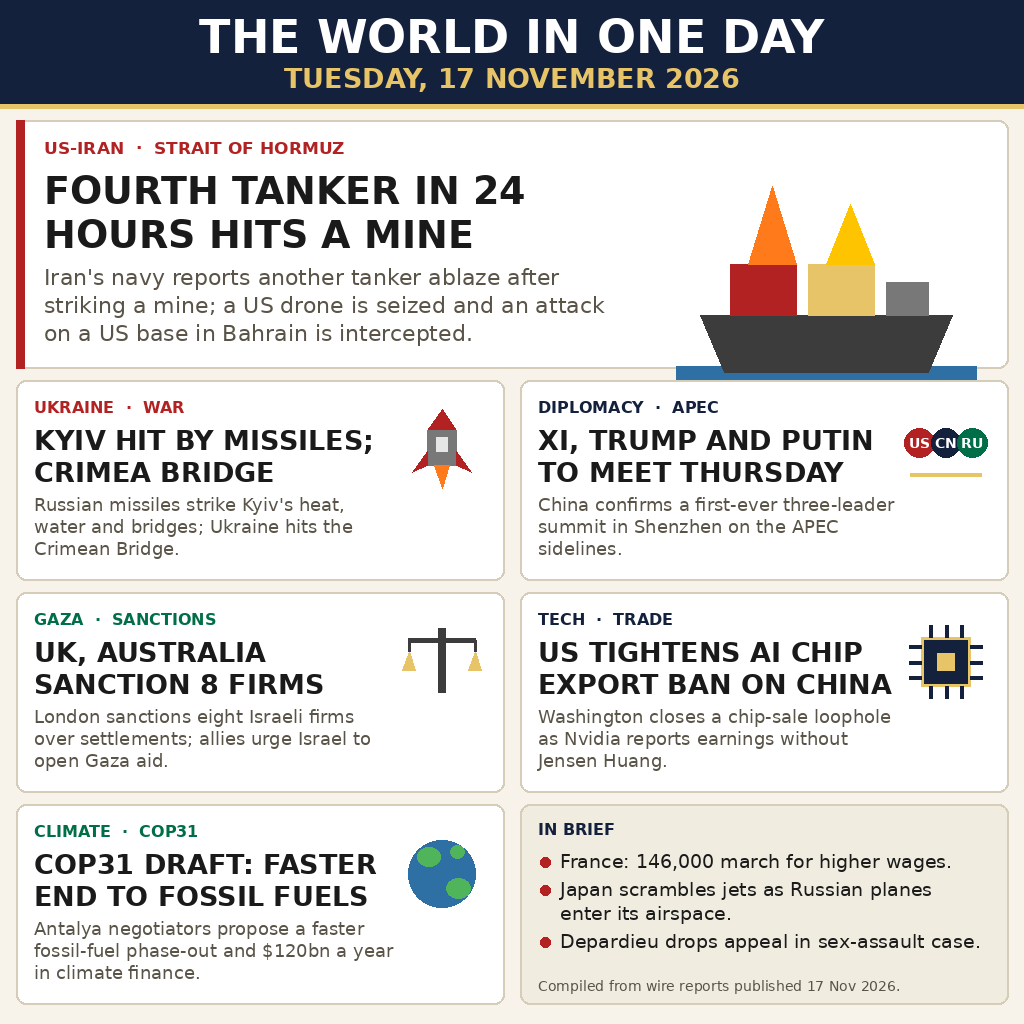
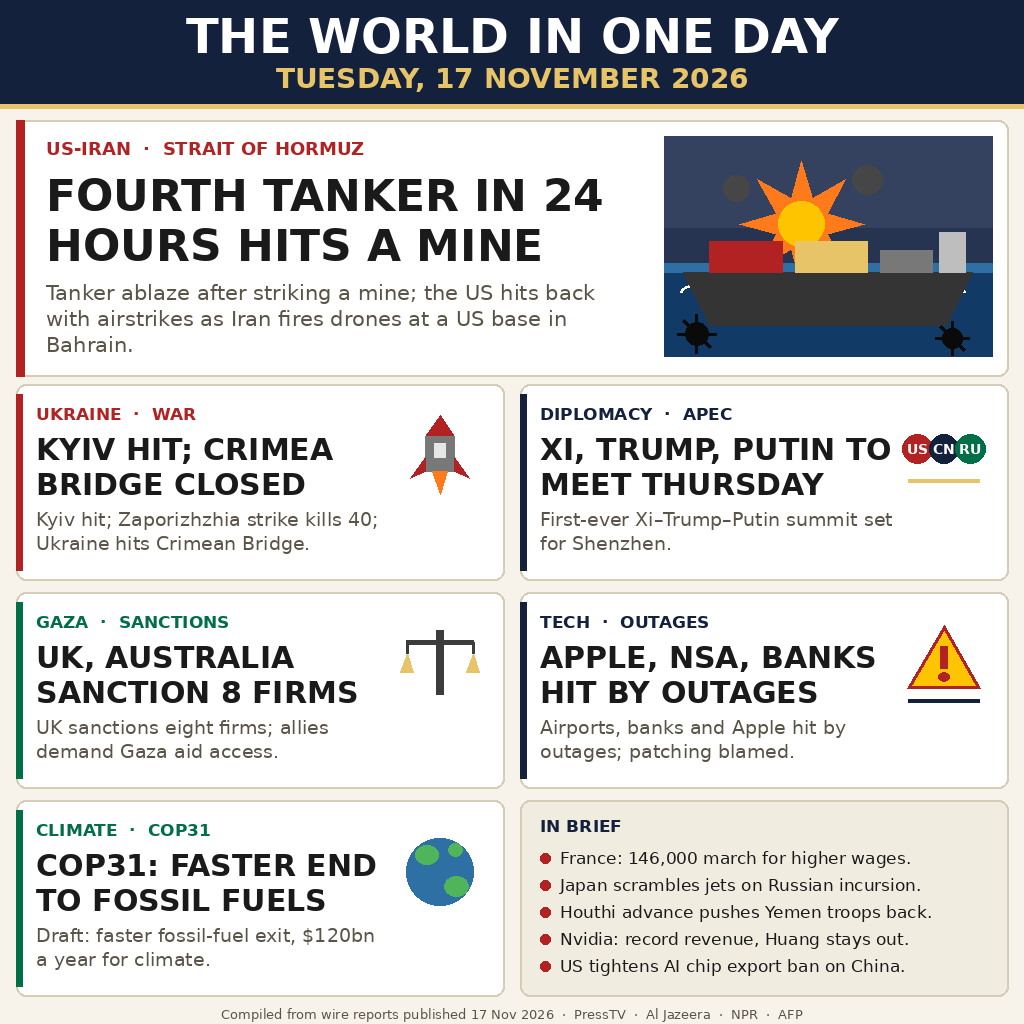
News-image v2: bigger hero scene, larger type, outages card, 5 briefs

diff --git a/render.py b/render.py
@@ -1,5 +1,13 @@
 #!/usr/bin/env python3
-"""Render the 17 November 2026 world-news summary image (1024x1024 PNG).
+"""Render the 17 November 2026 world-news summary image, VERSION 2
+(1024x1024 PNG).
+
+v2 vs v1: bigger, more dramatic lead scene; larger type everywhere
+(headlines 30-44pt, bodies 19-21pt); one fresh card (US tech outages,
+verified by NPR); Ukraine card strengthened with the verified
+Zaporizhzhia death toll; Gaza card strengthened with the four-nation
+aid call; In Brief grows to 5 one-line items and the source line moves
+to a footer strip, so no panel has dead space.
 
 Run locally (needs Pillow + DejaVu fonts, both present on the build machine):
     python3 render.py
@@ -15,14 +23,16 @@ PAPER = (247, 243, 234)
 INK = (26, 26, 26)
 MUTED = (90, 84, 72)
 NAVY = (20, 33, 61)
+NAVY_DARK = (13, 22, 42)
 GOLD = (232, 196, 104)
 RED = (178, 34, 34)
 CARD = (255, 255, 255)
 BORDER = (214, 205, 184)
-SKY = (135, 206, 235)
 SEA = (46, 111, 164)
+SEA_DARK = (18, 58, 102)
 FLAME = (255, 122, 26)
 FLAME2 = (255, 196, 0)
+GREEN = (0, 110, 70)
 
 
 def font(name, size):
@@ -66,26 +76,52 @@ def draw_text_block(draw, x, y, lines, fnt, fill, leading):
 
 # ---------- icons (flat shapes, drawn with PIL primitives) ----------
 
-def icon_tanker(d, x, y, s):
+def icon_tanker_scene(d, x, y, w, h):
+    """Dramatic war-at-sea scene: dusk sky, burning tanker, mines in the water."""
+    # dusk sky bands
+    d.rectangle([x, y, x + w, y + h * 0.42], fill=(52, 66, 96))
+    d.rectangle([x, y + h * 0.42, x + w, y + h * 0.58], fill=(38, 52, 82))
     # sea
-    d.rectangle([x, y + s * 0.72, x + s, y + s * 0.95], fill=SEA)
-    d.arc([x, y + s * 0.80, x + s, y + s * 1.05], 0, 180, fill=(255, 255, 255), width=3)
-    # hull
-    d.polygon([(x + s * 0.08, y + s * 0.55), (x + s * 0.92, y + s * 0.55),
-               (x + s * 0.84, y + s * 0.74), (x + s * 0.16, y + s * 0.74)], fill=(60, 60, 60))
-    # containers
-    d.rectangle([x + s * 0.18, y + s * 0.38, x + s * 0.40, y + s * 0.55], fill=RED)
-    d.rectangle([x + s * 0.44, y + s * 0.38, x + s * 0.66, y + s * 0.55], fill=GOLD)
-    d.rectangle([x + s * 0.70, y + s * 0.44, x + s * 0.84, y + s * 0.55], fill=(120, 120, 120))
-    # flame
-    d.polygon([(x + s * 0.24, y + s * 0.38), (x + s * 0.32, y + s * 0.12),
-               (x + s * 0.40, y + s * 0.38)], fill=FLAME)
-    d.polygon([(x + s * 0.50, y + s * 0.38), (x + s * 0.58, y + s * 0.18),
-               (x + s * 0.66, y + s * 0.38)], fill=FLAME2)
+    d.rectangle([x, y + h * 0.58, x + w, y + h], fill=SEA_DARK)
+    d.rectangle([x, y + h * 0.58, x + w, y + h * 0.62], fill=SEA)
+    # wave arcs
+    for wx, wy, ww in [(0.05, 0.66, 0.22), (0.38, 0.72, 0.26), (0.68, 0.66, 0.24)]:
+        d.arc([x + w * wx, y + h * wy, x + w * (wx + ww), y + h * (wy + 0.10)],
+              180, 360, fill=(255, 255, 255), width=3)
+    # explosion starburst above the tanker (flames touching the containers)
+    cx, cy = x + w * 0.42, y + h * 0.40
+    r1, r2 = w * 0.19, w * 0.085
+    import math
+    pts = []
+    for i in range(16):
+        r = r1 if i % 2 == 0 else r2
+        a = math.pi * i / 8 - math.pi / 2
+        pts.append((cx + r * math.cos(a), cy + r * math.sin(a)))
+    d.polygon(pts, fill=FLAME)
+    d.ellipse([cx - w * 0.07, cy - w * 0.07, cx + w * 0.07, cy + w * 0.07], fill=FLAME2)
+    # smoke puffs (dark, low over the flames)
+    for sx, sy, sr in [(0.22, 0.24, 0.04), (0.62, 0.20, 0.045)]:
+        d.ellipse([x + w * sx - w * sr, y + h * sy - w * sr,
+                   x + w * sx + w * sr, y + h * sy + w * sr], fill=(70, 70, 70))
+    # tanker hull
+    d.polygon([(x + w * 0.06, y + h * 0.62), (x + w * 0.94, y + h * 0.62),
+               (x + w * 0.86, y + h * 0.86), (x + w * 0.14, y + h * 0.86)],
+              fill=(52, 52, 52))
+    d.rectangle([x + w * 0.14, y + h * 0.48, x + w * 0.36, y + h * 0.62], fill=RED)
+    d.rectangle([x + w * 0.40, y + h * 0.48, x + w * 0.62, y + h * 0.62], fill=GOLD)
+    d.rectangle([x + w * 0.66, y + h * 0.52, x + w * 0.82, y + h * 0.62], fill=(120, 120, 120))
+    # bridge tower
+    d.rectangle([x + w * 0.84, y + h * 0.44, x + w * 0.92, y + h * 0.62], fill=(190, 190, 190))
+    # mines in the water
+    for mx, my, mr in [(0.10, 0.90, 0.035), (0.88, 0.92, 0.03)]:
+        mcx, mcy = x + w * mx, y + h * my
+        d.ellipse([mcx - w * mr, mcy - w * mr, mcx + w * mr, mcy + w * mr], fill=(10, 10, 10))
+        for dx, dy in [(-1, 0), (1, 0), (0, -1), (0, 1), (-0.7, -0.7), (0.7, 0.7)]:
+            d.line([mcx, mcy, mcx + dx * w * mr * 1.7, mcy + dy * w * mr * 1.7],
+                   fill=(10, 10, 10), width=3)
 
 
 def icon_missile(d, x, y, s):
-    # vertical rocket: nose cone, body, fins, flame
     d.polygon([(x + s * 0.50, y + s * 0.04), (x + s * 0.66, y + s * 0.28),
                (x + s * 0.34, y + s * 0.28)], fill=RED)
     d.rectangle([x + s * 0.34, y + s * 0.28, x + s * 0.66, y + s * 0.68],
@@ -125,16 +161,13 @@ def icon_scales(d, x, y, s):
     d.line([x + s * 0.875, y + s * 0.25, x + s * 0.875, y + s * 0.38], fill=(60, 60, 60), width=3)
 
 
-def icon_chip(d, x, y, s):
-    d.rectangle([x + s * 0.22, y + s * 0.22, x + s * 0.78, y + s * 0.78],
-                fill=NAVY, outline=GOLD, width=3)
-    d.rectangle([x + s * 0.40, y + s * 0.40, x + s * 0.60, y + s * 0.60], fill=GOLD)
-    for i in range(3):
-        off = s * (0.32 + i * 0.18)
-        d.line([x + off, y + s * 0.08, x + off, y + s * 0.22], fill=NAVY, width=4)
-        d.line([x + off, y + s * 0.78, x + off, y + s * 0.92], fill=NAVY, width=4)
-        d.line([x + s * 0.08, y + off, x + s * 0.22, y + off], fill=NAVY, width=4)
-        d.line([x + s * 0.78, y + off, x + s * 0.92, y + off], fill=NAVY, width=4)
+def icon_outage(d, x, y, s):
+    # warning triangle over a dark screen with a jagged crack
+    d.polygon([(x + s * 0.50, y + s * 0.06), (x + s * 0.92, y + s * 0.78),
+               (x + s * 0.08, y + s * 0.78)], fill=FLAME2, outline=RED, width=3)
+    d.rectangle([x + s * 0.46, y + s * 0.30, x + s * 0.54, y + s * 0.55], fill=RED)
+    d.ellipse([x + s * 0.44, y + s * 0.60, x + s * 0.56, y + s * 0.70], fill=RED)
+    d.line([x + s * 0.10, y + s * 0.92, x + s * 0.90, y + s * 0.92], fill=NAVY, width=4)
 
 
 def icon_globe(d, x, y, s):
@@ -151,21 +184,26 @@ def icon_globe(d, x, y, s):
 def card(draw, x, y, w, h, kicker, kcolor, headline, body, icon=None):
     draw.rounded_rectangle([x, y, x + w, y + h], radius=10, fill=CARD,
                            outline=BORDER, width=2)
-    pad = 18
+    # color-coded left bar
+    draw.rectangle([x, y + 10, x + 6, y + h - 10], fill=kcolor)
+    pad = 20
     tx = x + pad
     ty = y + pad
     icon_w = 92 if icon else 0
     text_w = w - pad * 2 - icon_w
-    kf = font("bold", 16)
+    kf = font("bold", 17)
     draw.text((tx, ty), kicker, font=kf, fill=kcolor)
-    ty += 26
-    hf = font("bold", 27)
+    ty += 28
+    hf = font("bold", 30)
     lines = wrap(draw, headline, hf, text_w)
-    ty = draw_text_block(draw, tx, ty, lines[:2], hf, INK, 32)
+    assert len(lines) <= 2, f"headline too long: {headline!r} -> {lines}"
+    ty = draw_text_block(draw, tx, ty, lines[:2], hf, INK, 35)
     ty += 6
-    bf = font("regular", 18)
+    bf = font("regular", 19)
     blines = wrap(draw, body, bf, text_w)
-    draw_text_block(draw, tx, ty, blines[:3], bf, MUTED, 22)
+    assert len(blines) <= 2, f"body too long: {body!r} -> {blines}"
+    end = draw_text_block(draw, tx, ty, blines[:2], bf, MUTED, 24)
+    assert end <= y + h - 12, f"card overflows: {headline!r}"
     if icon:
         icon(draw, x + w - pad - 88, y + pad + 8, 88)
 
@@ -176,98 +214,104 @@ def main():
 
     # masthead
     d.rectangle([0, 0, W, 104], fill=NAVY)
-    tf = font("bold", 46)
+    tf = font("bold", 48)
     title = "THE WORLD IN ONE DAY"
     tw = d.textlength(title, font=tf)
-    d.text(((W - tw) / 2, 10), title, font=tf, fill=(255, 255, 255))
-    df = font("bold", 27)
+    d.text(((W - tw) / 2, 8), title, font=tf, fill=(255, 255, 255))
+    df = font("bold", 28)
     date = "TUESDAY, 17 NOVEMBER 2026"
     dw = d.textlength(date, font=df)
     d.text(((W - dw) / 2, 62), date, font=df, fill=GOLD)
     d.rectangle([0, 104, W, 108], fill=GOLD)
 
-    # lead story: Hormuz
-    lx, ly, lw, lh = 16, 120, 992, 248
+    # lead story: Hormuz — bigger hero scene, bigger type
+    lx, ly, lw, lh = 16, 120, 992, 256
     d.rounded_rectangle([lx, ly, lx + lw, ly + lh], radius=10, fill=CARD,
                         outline=BORDER, width=2)
     d.rectangle([lx, ly, lx + 8, ly + lh], fill=RED)
-    tx, ty = lx + 28, ly + 18
-    kf = font("bold", 17)
+    tx, ty = lx + 30, ly + 18
+    kf = font("bold", 18)
     d.text((tx, ty), "US-IRAN  ·  STRAIT OF HORMUZ", font=kf, fill=RED)
-    ty += 30
-    hf = font("bold", 38)
+    ty += 32
+    hf = font("bold", 44)
     lines = wrap(d, "FOURTH TANKER IN 24 HOURS HITS A MINE", hf, 590)
-    ty = draw_text_block(d, tx, ty, lines, hf, INK, 44)
-    ty += 8
-    bf = font("regular", 22)
-    body = ("Iran's navy reports another tanker ablaze after striking a mine; "
-            "a US drone is seized and an attack on a US base in Bahrain is intercepted.")
+    assert len(lines) <= 2, f"lead headline wraps to {len(lines)} lines"
+    ty = draw_text_block(d, tx, ty, lines, hf, INK, 50)
+    ty += 10
+    bf = font("regular", 21)
+    body = ("Tanker ablaze after striking a mine; the US hits back with "
+            "airstrikes as Iran fires drones at a US base in Bahrain.")
     blines = wrap(d, body, bf, 590)
-    draw_text_block(d, tx, ty, blines, bf, MUTED, 28)
-    icon_tanker(d, lx + 660, ly + 30, 300)
+    assert len(blines) <= 3, f"lead body wraps to {len(blines)} lines"
+    end = draw_text_block(d, tx, ty, blines, bf, MUTED, 26)
+    assert end <= ly + lh - 14, "lead overflows"
+    icon_tanker_scene(d, lx + 648, ly + 16, 328, 220)
 
     # grid: 2 columns x 3 rows
     gx0, gx1 = 16, 520
     gw = 488
-    rows = [(380, 200), (592, 200), (804, 200)]
+    rows = [(384, 196), (592, 196), (800, 196)]
     stories = [
         ("UKRAINE  ·  WAR", RED,
-         "KYIV HIT BY MISSILES; CRIMEA BRIDGE CLOSED",
-         "Russian missiles strike Kyiv's heat, water and bridges; Ukraine hits the Crimean Bridge.",
+         "KYIV HIT; CRIMEA BRIDGE CLOSED",
+         "Kyiv hit; Zaporizhzhia strike kills 40; Ukraine hits Crimean Bridge.",
          icon_missile),
         ("DIPLOMACY  ·  APEC", NAVY,
-         "XI, TRUMP AND PUTIN TO MEET THURSDAY",
-         "China confirms a first-ever three-leader summit in Shenzhen on the APEC sidelines.",
+         "XI, TRUMP, PUTIN TO MEET THURSDAY",
+         "First-ever Xi–Trump–Putin summit set for Shenzhen.",
          icon_summit),
-        ("GAZA  ·  SANCTIONS", (0, 110, 70),
+        ("GAZA  ·  SANCTIONS", GREEN,
          "UK, AUSTRALIA SANCTION 8 FIRMS",
-         "London sanctions eight Israeli firms over settlements; allies urge Israel to open Gaza aid.",
+         "UK sanctions eight firms; allies demand Gaza aid access.",
          icon_scales),
-        ("TECH  ·  TRADE", NAVY,
-         "US TIGHTENS AI CHIP EXPORT BAN ON CHINA",
-         "Washington closes a chip-sale loophole as Nvidia reports earnings without Jensen Huang.",
-         icon_chip),
-        ("CLIMATE  ·  COP31", (0, 110, 70),
-         "COP31 DRAFT: FASTER END TO FOSSIL FUELS",
-         "Antalya negotiators propose a faster fossil-fuel phase-out and $120bn a year in climate finance.",
+        ("TECH  ·  OUTAGES", NAVY,
+         "APPLE, NSA, BANKS HIT BY OUTAGES",
+         "Airports, banks and Apple hit by outages; patching blamed.",
+         icon_outage),
+        ("CLIMATE  ·  COP31", GREEN,
+         "COP31: FASTER END TO FOSSIL FUELS",
+         "Draft: faster fossil-fuel exit, $120bn a year for climate.",
          icon_globe),
-        (None, None, None, None, None),
     ]
-    # row 1
     card(d, gx0, rows[0][0], gw, rows[0][1], stories[0][0], stories[0][1],
          stories[0][2], stories[0][3], stories[0][4])
     card(d, gx1, rows[0][0], gw, rows[0][1], stories[1][0], stories[1][1],
          stories[1][2], stories[1][3], stories[1][4])
-    # row 2
     card(d, gx0, rows[1][0], gw, rows[1][1], stories[2][0], stories[2][1],
          stories[2][2], stories[2][3], stories[2][4])
     card(d, gx1, rows[1][0], gw, rows[1][1], stories[3][0], stories[3][1],
          stories[3][2], stories[3][3], stories[3][4])
-    # row 3: COP31 + In brief panel
+    # row 3: COP31 + In brief panel (5 one-line items, no dead space)
     card(d, gx0, rows[2][0], gw, rows[2][1], stories[4][0], stories[4][1],
          stories[4][2], stories[4][3], stories[4][4])
     bx, by, bw, bh = gx1, rows[2][0], gw, rows[2][1]
     d.rounded_rectangle([bx, by, bx + bw, by + bh], radius=10, fill=(240, 236, 224),
                         outline=BORDER, width=2)
-    kf = font("bold", 16)
-    d.text((bx + 18, by + 16), "IN BRIEF", font=kf, fill=NAVY)
-    bf = font("regular", 19)
+    kf = font("bold", 17)
+    d.text((bx + 20, by + 16), "IN BRIEF", font=kf, fill=NAVY)
+    bf = font("regular", 17)
     briefs = [
         "France: 146,000 march for higher wages.",
-        "Japan scrambles jets as Russian planes enter its airspace.",
-        "Depardieu drops appeal in sex-assault case.",
+        "Japan scrambles jets on Russian incursion.",
+        "Houthi advance pushes Yemen troops back.",
+        "Nvidia: record revenue, Huang stays out.",
+        "US tightens AI chip export ban on China.",
     ]
-    yy = by + 46
+    yy = by + 48
     for item in briefs:
-        d.ellipse([bx + 20, yy + 7, bx + 30, yy + 17], fill=RED)
-        for ln in wrap(d, item, bf, bw - 62):
-            d.text((bx + 40, yy), ln, font=bf, fill=INK)
-            yy += 24
+        lines = wrap(d, item, bf, bw - 64)
+        assert len(lines) == 1, f"brief wraps to 2 lines: {item!r}"
+        d.ellipse([bx + 20, yy + 5, bx + 30, yy + 15], fill=RED)
+        d.text((bx + 40, yy), lines[0], font=bf, fill=INK)
+        yy += 23
         yy += 4
-    sf = font("regular", 14)
-    d.text((bx + 18, by + bh - 26),
-           "Compiled from wire reports published 17 Nov 2026.",
-           font=sf, fill=MUTED)
+    assert yy <= by + bh - 10, f"in-brief overflows at {yy}"
+
+    # footer strip (source line, uses the empty strip below the grid)
+    sf = font("regular", 13)
+    foot = "Compiled from wire reports published 17 Nov 2026  ·  PressTV  ·  Al Jazeera  ·  NPR  ·  AFP"
+    fw = d.textlength(foot, font=sf)
+    d.text(((W - fw) / 2, 1006), foot, font=sf, fill=MUTED)
 
     out = os.path.join(os.path.dirname(os.path.abspath(__file__)), "entry.png")
     img.save(out, "PNG", optimize=True)
